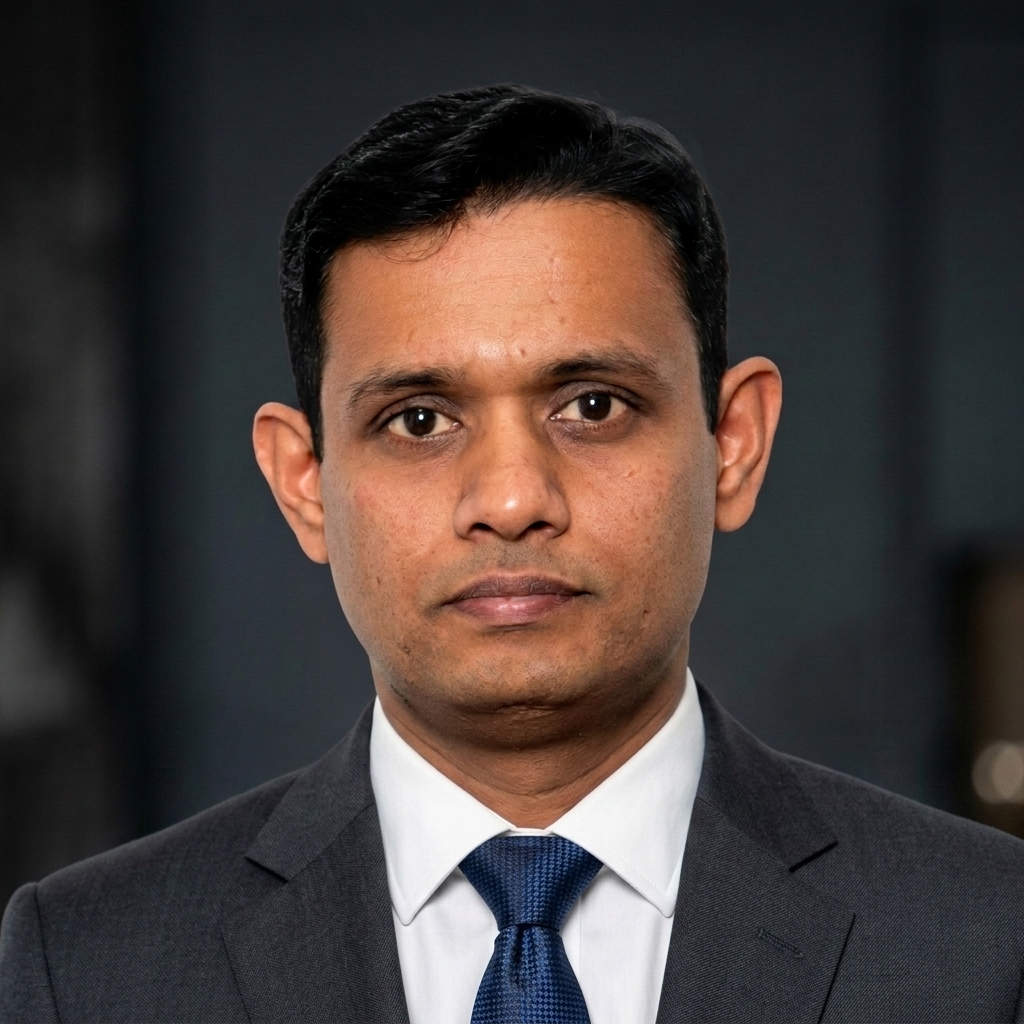
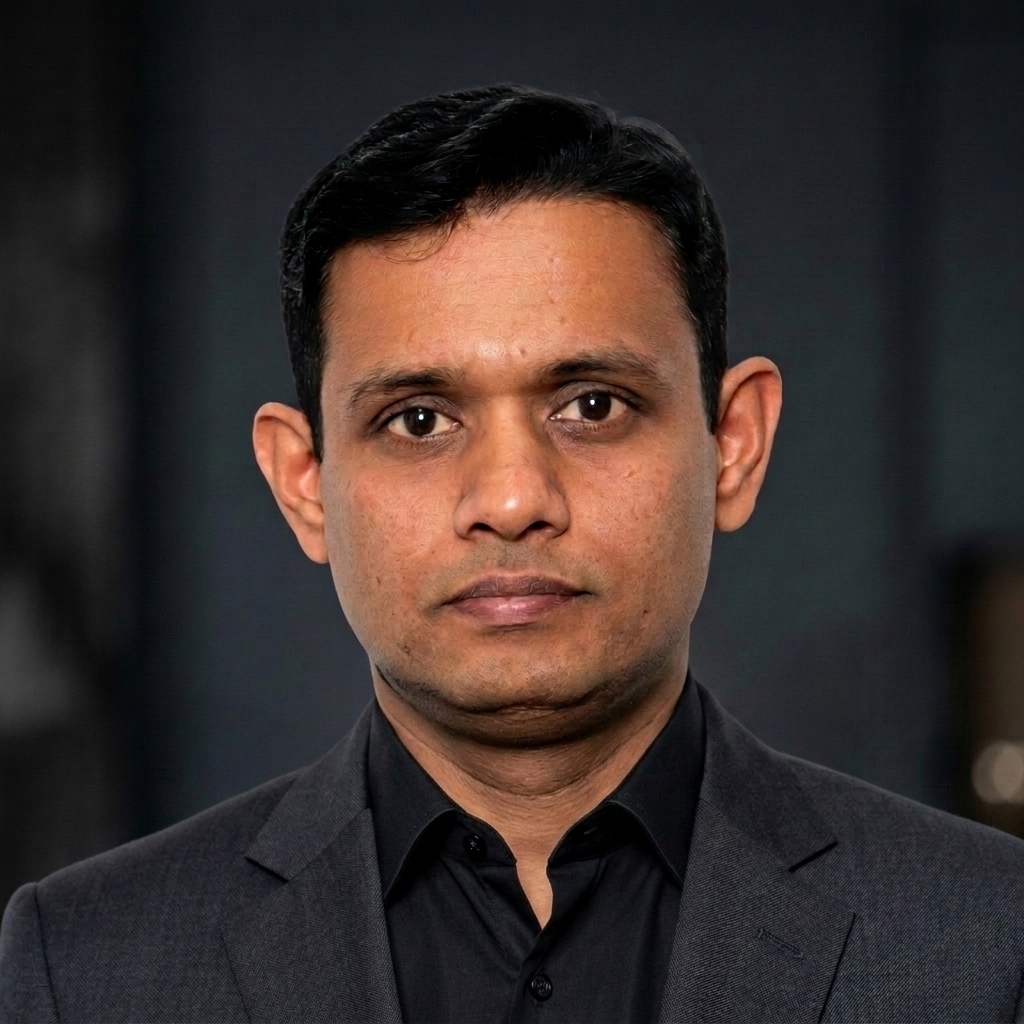
feat(profile): update suit with sleek dark charcoal shirt (no white shirt)

Changed region(s): [[0.3438, 0.6562, 0.6875, 1.0]]

diff --git a/cv.html b/cv.html
@@ -93,7 +93,7 @@
       <header class="cv-header">
         <div class="cv-header-identity">
           <div class="cv-avatar-wrap">
-            <img src="profile.jpg?v=12" alt="Rajeev Mutyalu" class="cv-avatar-img" />
+            <img src="profile.jpg?v=13" alt="Rajeev Mutyalu" class="cv-avatar-img" />
           </div>
           <div class="cv-identity-text">
             <h1 class="cv-name">Rajeev Mutyalu</h1>

diff --git a/index.html b/index.html
@@ -140,7 +140,7 @@
       <!-- Profile Photo & Status -->
       <div class="hero-avatar-wrapper">
         <div class="avatar-glow"></div>
-        <img src="profile.jpg?v=12" alt="Rajeev Mutyalu" class="hero-avatar" />
+        <img src="profile.jpg?v=13" alt="Rajeev Mutyalu" class="hero-avatar" />
       </div>
 
       <div class="status-pill">
